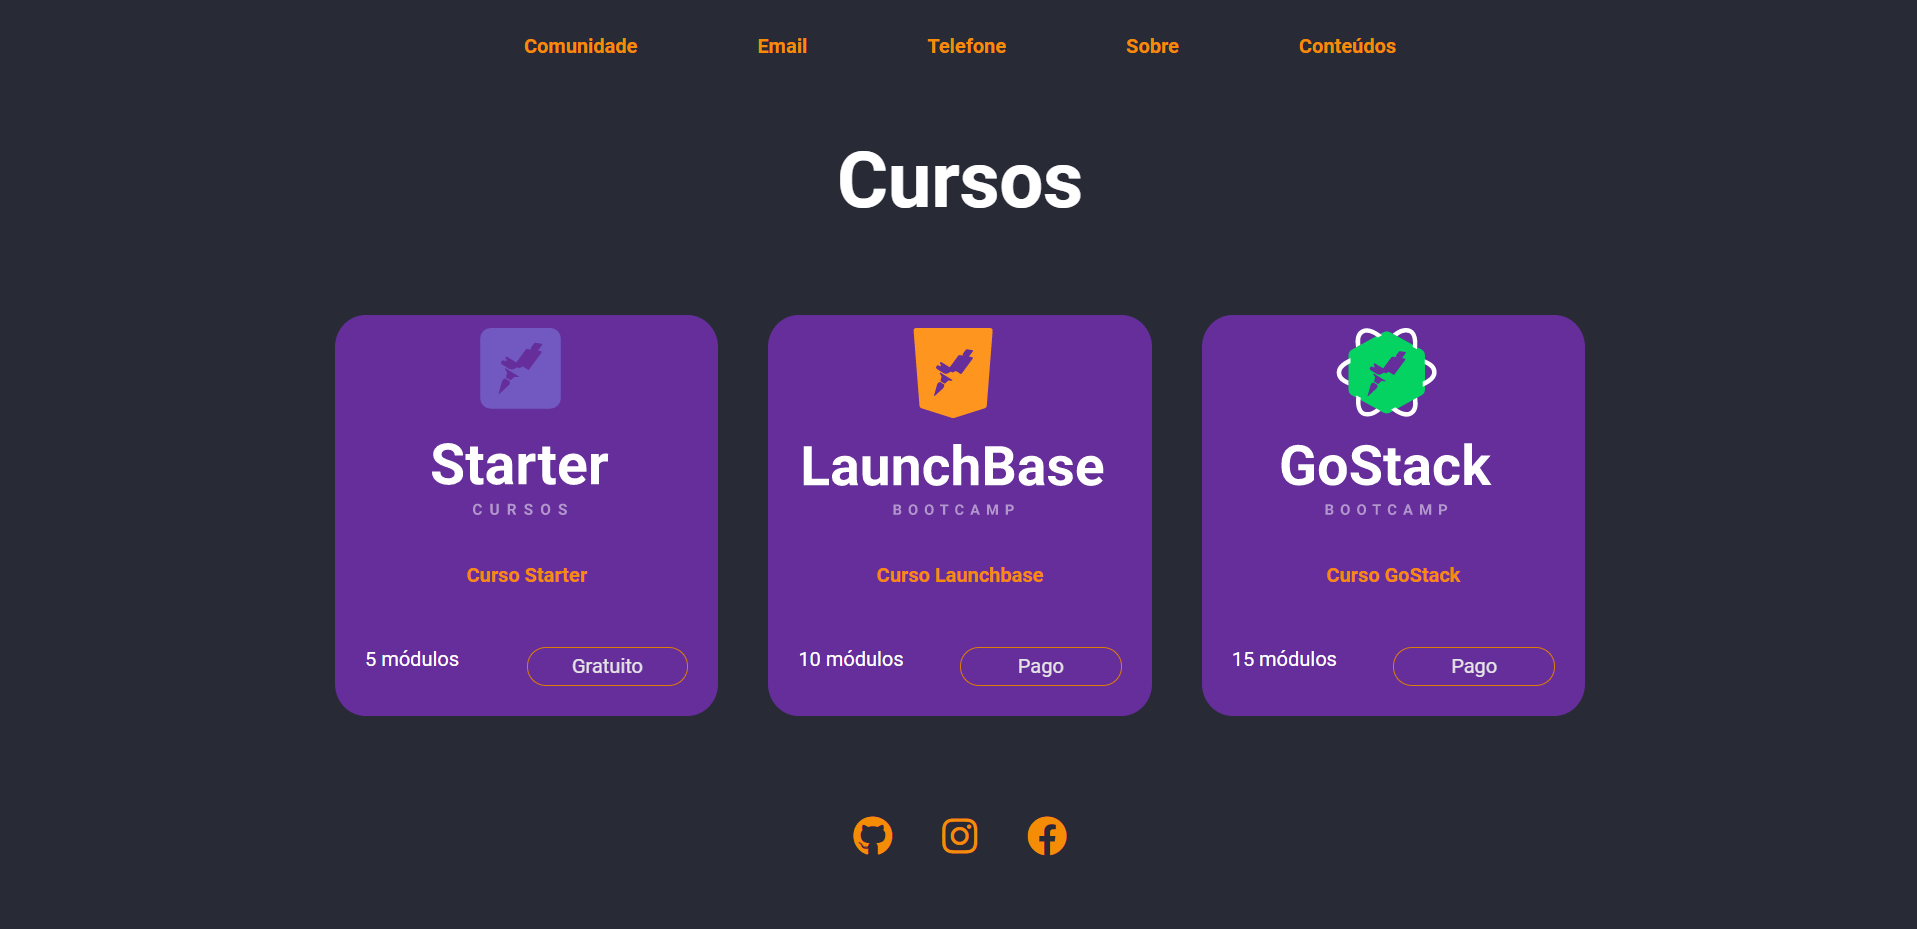
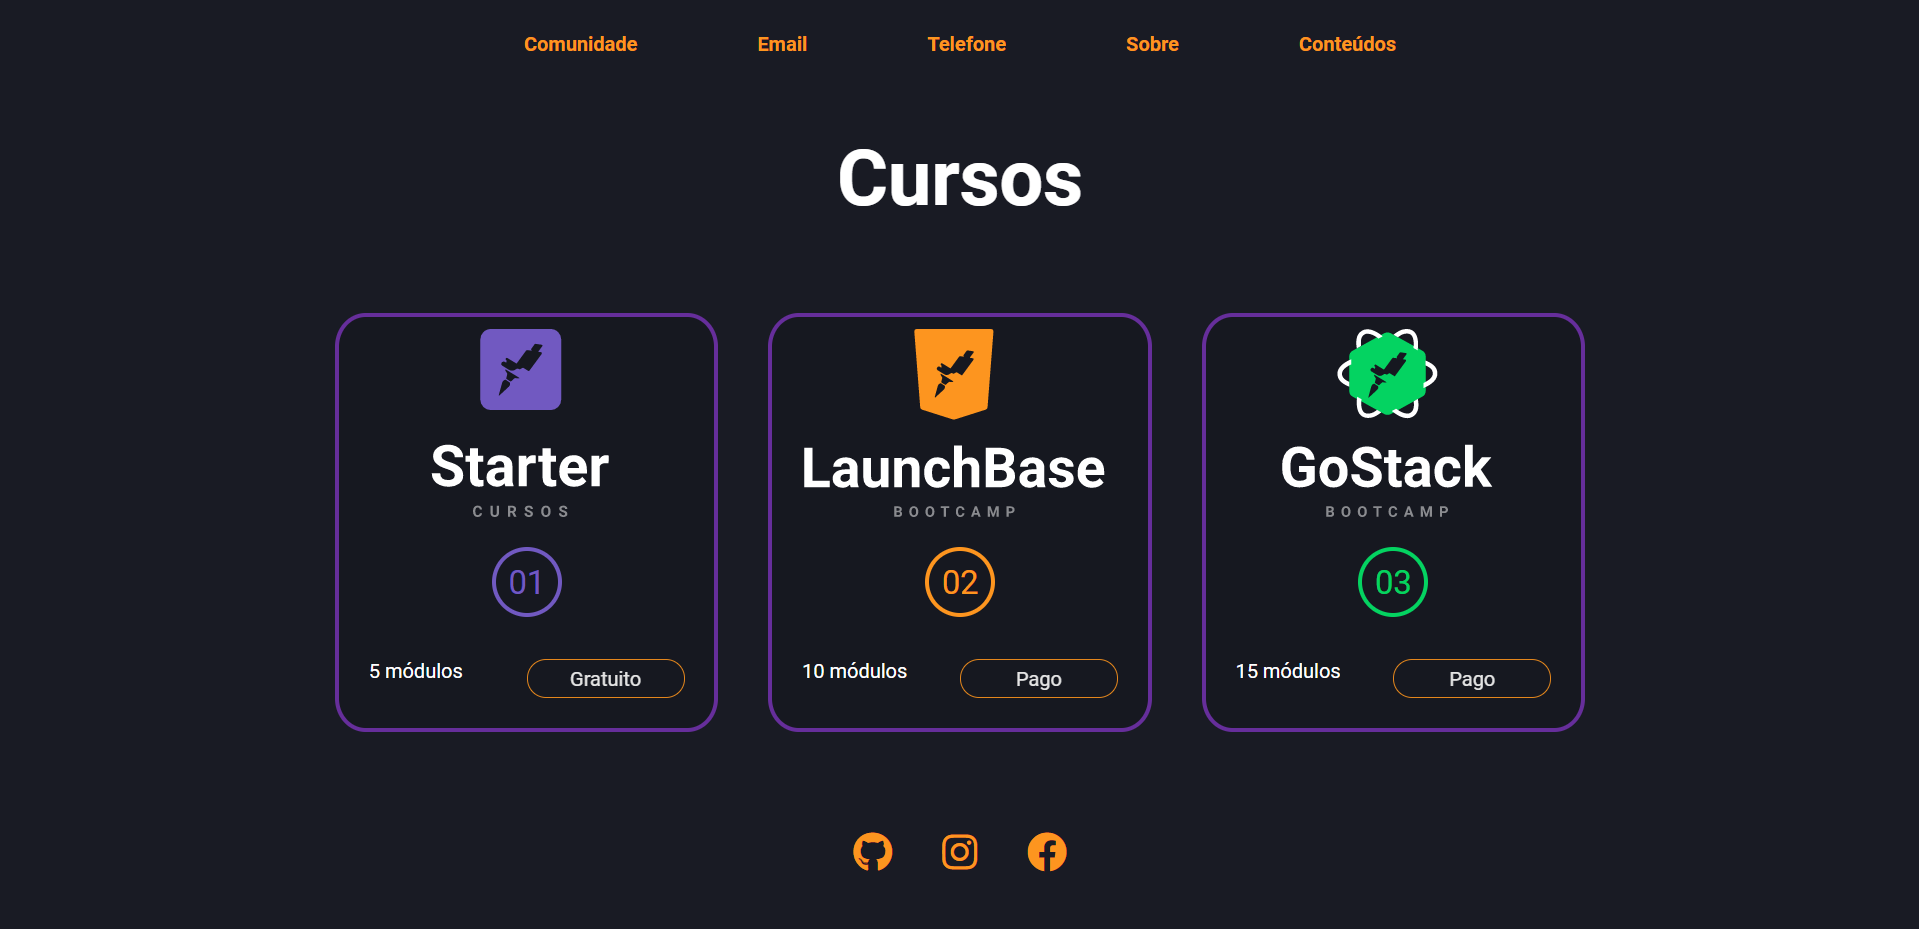
Changed design

diff --git a/css/courses.css b/css/courses.css
@@ -1,8 +1,8 @@
 :root {
     --color-purple: #662e9b;
-    --color-bg: #282a36;
+    --color-bg: #191b24;
     --color-green: #50fa7b;
-    --color-orange: #f48c06;
+    --color-orange: #fd951f;
 }
 
 #wrapper {
@@ -31,8 +31,9 @@
 }
 
 .card {
-   background-color: var(--color-purple);
-   border-radius: 8%;
+    background: rgba(0, 0, 0, 0.103);
+    border: 3px solid var(--color-purple);
+    border-radius: 8%;
 }
 
 .card:hover {
@@ -46,7 +47,7 @@
     justify-content: center;
     height: 150px;
 }
-.card__content, .card__info {
+.card__info {
     padding: 24px;
 }
 
@@ -69,10 +70,40 @@
     font-weight: bold;
 }
 
-.card__content {
+.card__number {
+    display: flex;
+    align-items: center;
+    justify-content: center;
+    margin-top: 10px;
+    margin-bottom: 10px;
+}
+
+.card__number p {
+    padding: 10px;
     text-align: center;
-    color: var(--color-orange);
     font-weight: bold;
+    border-radius: 50%;
+    width: 30px;
+    height: 30px;
+    border: 3px solid #000;
+    text-align: center;
+    font: 26px 'Roboto', sans-serif;
+
+}
+
+p.purple {
+    color: #7159c1;
+    border: 3px solid #7159c1;
+}
+
+p.orange {
+    color: var(--color-orange);
+    border: 3px solid var(--color-orange);
+}
+
+p.green {
+    color: #04d361;
+    border: 3px solid #04d361;
 }
 
 .modal-overlay {

diff --git a/courses.html b/courses.html
@@ -31,8 +31,8 @@
             <div class="card__image-container">
                 <img src="img/starter.svg" alt="Logo Starter">
             </div>
-            <div class="card__content">
-                <p>Curso Starter</p>
+            <div class="card__number">
+                <p class="purple">01</p>
             </div>
             <div class="card__info">
                 <p>5 módulos</p>
@@ -44,8 +44,8 @@
             <div class="card__image-container">
                 <img src="img/launchbase.svg" alt="Logo Launchbase">
             </div>
-            <div class="card__content">
-                <p>Curso Launchbase</p>
+            <div class="card__number">
+                <p class="orange">02</p>
             </div>
             <div class="card__info">
                 <p>10 módulos</p>
@@ -57,8 +57,8 @@
             <div class="card__image-container">
                 <img src="img/gostack.svg" alt="Projeto">
             </div>
-            <div class="card__content">
-                <p>Curso GoStack</p>
+            <div class="card__number">
+                <p class="green">03</p>
             </div>
             <div class="card__info">
                 <p>15 módulos</p>

diff --git a/css/main.css b/css/main.css
@@ -1,8 +1,8 @@
 :root {
     --color-purple: #662e9b;
-    --color-bg: #282a36;
+    --color-bg: #191b24;
     --color-green: #50fa7b;
-    --color-orange: #f48c06;
+    --color-orange: #fd951f;
 }
 
 * {

diff --git a/README.md b/README.md
@@ -3,10 +3,6 @@
 </h1>
 
 <h1>
-<img src ="img/sobre.png" align="center">
-</h1>
-
-<h1>
 <img src ="img/cursos.png" align="center">
 </h1>
 
@@ -35,7 +31,7 @@ This project was developed with:
 ```bash
 
 # Clone this repository using
-$ git clone https://github.com/jpautran/
+$ git clone https://github.com/jpautran/rocketseatWebpage
 
 ```
 ---
